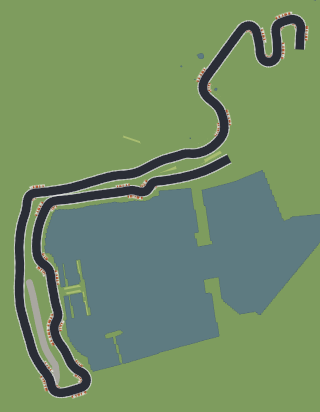
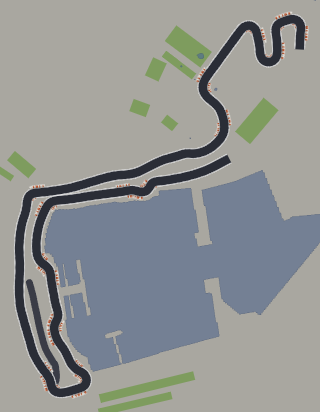
Moanaco's town paved: concrete pavements, quays and squares, its parks and gardens grass, a tarmac pit lane - behind ?moanacovenue=1
Owner 11-11 on the town sitting on grass: "Yeah make pavement or anything else you need".
- world/venue.ts VenueSpec.base: the ground off the road (Moanaco: concrete - the existing ground
  art, pale slabs - so the streets between the blocks, the quays to the water's edge and Casino
  Square are paved); grass when not given (every other venue as before).
- the parks, gardens and woods as grass pads (OSM leisure=park / garden, landuse=grass,
  natural=wood, landuse=forest near the lap, each its smallest turned rectangle:
  tools/scratch/_moparks.mjs; shrunk about its middle to keep 13 m off the road:
  _mopads.mjs): 16 - the Casino's gardens (the Petite Afrique, the Boulingrins), the terraces
  above the tunnel, the Rocher's woods by Rascasse; the Parc Spelugues (on the hairpin) and a strip
  by Tabac left out. Bushes grow only on grass: in the gardens, not on the pavements.
- the car parks left out (tools/venues/moanaco.json leaveOut "paddocks": they were mown grass).
- world/venuepit.ts / VenueSpec.pitSurface: a concrete pit lane did not show on the concrete town
  (photographed); Moanaco's tarmac, as the real one. Every other venue's concrete as before.
- the menu thumbnail repainted.

Checks (MOANACOVENUE=1):
- crossingcheck moanaco: the bent tunnel both ways, pressed on each wall, from each side: all OK.
- barriercheck all OK; propcheck clear (every level); venueaudit: one block on a block (two city
  buildings), Armco doubled 10 m inside Portier - as before.
[…]

diff --git a/src/world/levels/venues/moanaco.ts b/src/world/levels/venues/moanaco.ts
@@ -613,46 +613,6 @@ export const MOANACO_VENUE: VenueData = {
       "rot": -0.922},
   ],
   paddocks: [
-    {"name": "", "surface": "", "x": -48.5, "y": -191.2, "w": 54.8, "h": 4.7, "rot": -2.71,
-      "pts": [[-24.6, -177.6], [-26.3, -183.3], [-72.3, -204.7], [-74.4, -200.5], [-24.6, -177.6]]},
-    {"name": "", "surface": "", "x": 369.3, "y": -433.6, "w": 15.5, "h": 4, "rot": 0.64,
-      "pts": [[363, -438], [374.3, -427.3], [376.7, -430.6], [364.3, -439.8], [363, -438]]},
-    {"name": "", "surface": "", "x": 161.4, "y": -149.5, "w": 48, "h": 4.9, "rot": -0.461,
-      "pts": [[140.9, -136.6], [183.9, -158], [181.8, -162.4], [138.8, -141], [140.9, -136.6]]},
-    {"name": "", "surface": "", "x": 42.9, "y": -118.7, "w": 44.7, "h": 3.9, "rot": -0.105,
-      "pts": [[20.9, -114.5], [65.3, -119.1], [64.9, -123], [20.4, -118.3], [20.9, -114.5]]},
-    {"name": "", "surface": "", "x": 61.8, "y": -130.6, "w": 9.1, "h": 4, "rot": -0.072,
-      "pts": [[57.4, -128.2], [66.5, -128.9], [66.2, -132.9], [57.1, -132.3], [57.4, -128.2]]},
-    {"name": "", "surface": "", "x": 155, "y": -306.4, "w": 45.7, "h": 6.7, "rot": 0.83,
-      "pts": [[170.3, -289.4], [150.4, -306.4], [143, -315.4], [139.6, -323.3], [143.2, -324.2],
-      [148.9, -313.1], [172.6, -292.1], [170.3, -289.4]]},
-    {"name": "", "surface": "", "x": 143.2, "y": -337.7, "w": 20.1, "h": 6.2, "rot": 1.967,
-      "pts": [[150, -345.7], [144.6, -348], [138.5, -334.4], [137.9, -329], [143.6, -330.4], [150,
-      -345.7]]},
-    {"name": "", "surface": "", "x": 132.7, "y": -344, "w": 18.3, "h": 6.1, "rot": -0.864,
-      "pts": [[124.4, -339], [128.3, -336.7], [135, -341.9], [138.8, -350.8], [135.1, -351.5],
-      [134.4, -348.1], [129, -340.9], [124.4, -339]]},
-    {"name": "", "surface": "", "x": 369.3, "y": -415.5, "w": 18.8, "h": 3, "rot": -0.923,
-      "pts": [[364.8, -407], [376.2, -422], [373.8, -423.9], [362.4, -408.9], [364.8, -407]]},
-    {"name": "", "surface": "", "x": 139.5, "y": -162.9, "w": 51.6, "h": 6, "rot": -0.383,
-      "pts": [[115.3, -154], [142.5, -160.9], [163.2, -173], [161.9, -175.1], [154.2, -169.3],
-      [142.3, -163.3], [131, -159.2], [114.7, -156.1], [115.3, -154]]},
-    {"name": "", "surface": "", "x": 154.2, "y": -184.1, "w": 91.2, "h": 14.2, "rot": -0.644,
-      "pts": [[114.5, -161], [138.8, -167.2], [155.4, -176.2], [172.9, -191], [184, -207.1],
-      [187.2, -216.2], [185.6, -216.6], [183, -209.6], [173.3, -194.5], [159, -181.2], [139.6,
-      -169.5], [114.2, -163], [114.5, -161]]},
-    {"name": "", "surface": "", "x": -207.3, "y": 204.9, "w": 48.2, "h": 5.8, "rot": 2.955,
-      "pts": [[-231.3, 207.3], [-228.4, 211.8], [-183.1, 203.2], [-186.4, 198], [-231.3, 207.3]]},
-    {"name": "", "surface": "", "x": -210.4, "y": 192.5, "w": 51.2, "h": 5.3, "rot": 2.954,
-      "pts": [[-236, 194.8], [-234.5, 199.8], [-184.7, 190.3], [-189, 185.8], [-236, 194.8]]},
-    {"name": "", "surface": "", "x": -189.9, "y": 141.1, "w": 36.6, "h": 2.8, "rot": -1.77,
-      "pts": [[-187.4, 159.2], [-185.5, 158.8], [-192.2, 123], [-194.9, 123.4], [-187.4, 159.2]]},
-    {"name": "", "surface": "", "x": -169.9, "y": 246, "w": 36.9, "h": 3.9, "rot": -1.776,
-      "pts": [[-168, 264.4], [-164.6, 263.5], [-171.7, 227.5], [-175.5, 228.3], [-168, 264.4]]},
-    {"name": "", "surface": "", "x": -176.9, "y": 210.1, "w": 13.1, "h": 3.2, "rot": 1.384,
-      "pts": [[-179.7, 204], [-177.1, 216.8], [-174.1, 216.3], [-176.5, 203.5], [-179.7, 204]]},
-    {"name": "", "surface": "", "x": 50, "y": -80.1, "w": 88.7, "h": 2.8, "rot": -0.147,
-      "pts": [[6, -74.2], [6.4, -72.4], [93.9, -85.1], [93.7, -87.9], [6, -74.2]]},
   ],
   woods: [
     {"pts": [[-358.1, 539.2], [-371, 541.8], [-371.9, 544.6], [-328.8, 556.6], [-330.2, 564],

diff --git a/src/world/levels/moanaco-venue.ts b/src/world/levels/moanaco-venue.ts
@@ -441,6 +441,33 @@ export const MOANACO_SPEC: VenueSpec = {
   // m past the road's edge the walls stand (a street circuit: the walls hard by the road)
   runoffM: 3,
   mixFences: true,
+  // THE TOWN PAVED (owner 11-11: "make pavement or anything else you need"): the ground off the
+  // road concrete - pavements, quays, squares - and the parks and gardens grass (OSM leisure=park /
+  // garden, landuse=grass and the woods near the lap, each its smallest turned rectangle:
+  // tools/scratch/_moparks.mjs), each shrunk about its middle to keep 13 m off the road
+  // (tools/scratch/_mopads.mjs; the Parc Spelugues by the hairpin and a strip by Tabac left out):
+  // the Casino's gardens - the Petite Afrique, the Boulingrins - the terraces above the tunnel
+  base: 'concrete',
+  // the pit lane tarmac, as the real one (concrete on the concrete town it did not show)
+  pitSurface: 'tarmac',
+  pads: [
+{ at: [48, -238], w: 26, h: 37, rot: -0.9, surface: 'grass' },
+    { at: [449, -641], w: 113, h: 57, rot: -1.48, surface: 'grass' },
+    { at: [97, -438], w: 116, h: 51, rot: -2.5, surface: 'grass' },
+    { at: [12, -378], w: 52, h: 39, rot: -1.14, surface: 'grass' },
+    { at: [-408, 287], w: 29, h: 40, rot: -1.7, surface: 'grass' },
+    { at: [73, -389], w: 19, h: 98, rot: 2.22, surface: 'grass' },
+    { at: [281, -239], w: 116, h: 51, rot: 2.27, surface: 'grass' },
+    { at: [-272, 542], w: 172, h: 53, rot: 0.04, surface: 'grass' },
+    { at: [-502, 506], w: 154, h: 42, rot: 3.06, surface: 'grass' },
+    { at: [-42, 497], w: 196, h: 20, rot: -0.23, surface: 'grass' },
+    { at: [-30, -277], w: 34, h: 46, rot: -1.22, surface: 'grass' },
+    { at: [-11, 453], w: 254, h: 23, rot: -0.24, surface: 'grass' },
+    { at: [-339, -129], w: 73, h: 32, rot: -2.44, surface: 'grass' },
+    { at: [-402, -118], w: 93, h: 17, rot: -2.56, surface: 'grass' },
+    { at: [50, -407], w: 41, h: 18, rot: -2.5, surface: 'grass' },
+    { at: [507, -633], w: 118, h: 47, rot: -0.95, surface: 'grass' },
+  ],
   railsSeen: MO_RAILS,
   // the tyre wall inside the swimming pool's first chicane, where the pit lane comes up to the
   // start straight (aerial photographs: the barrier between the pool's road and the pit exit; the

diff --git a/src/world/venue.ts b/src/world/venue.ts
@@ -154,6 +154,12 @@ export interface VenueSpec {
   // a pit lane's tunnel under the track: its two open ends, game m (Yass Marina's pit exit, under
   // the first corner; world/venuecross.ts pitTunnelPortals)
   pitTunnel?: { a: Point; b: Point };
+  // the ground off the road where it is not grass (a street circuit's pavements: Moanaco's
+  // concrete, its parks laid as grass pads); grass when not given
+  base?: keyof typeof SURFACES;
+  // the pit lane's surface where the venue's ground is concrete too (Moanaco's: tarmac); concrete
+  // when not given
+  pitSurface?: keyof typeof SURFACES;
   seed: number;
 }
 
@@ -574,7 +580,8 @@ export function venueLevel(spec: VenueSpec, layout: string, levelId: string,
   // on the grid near the start lane's dead end, facing along it; else 15 m before the line
   const start = startLane ? laneSpawn(startLane) : onTrack(sub, sub.totalDist - 15, 0, {});
   return {
-    id: levelId, name, base: SURFACES.grass, subtrack: sub, bounds: scenery.bounds,
+    id: levelId, name, base: SURFACES[spec.base || 'grass'], subtrack: sub,
+    bounds: scenery.bounds,
     floor: Math.ceil(Math.max(-scenery.bounds.x0, scenery.bounds.x1, -scenery.bounds.y0,
       scenery.bounds.y1)),
     camber: spec.camber?.[layout] || { maxDeg: 3, refR: 70, crown: 0.02, edge: 6, sections: [] },

diff --git a/src/world/venuepit.ts b/src/world/venuepit.ts
@@ -77,7 +77,7 @@ export function pitLane(site: Site, name: string): { lane: Lane; wall: Barrier |
     (along) => HALF_ROAD + wallGap(sub, along) + PIT_WALL_GAP + PIT_W / 2, fromMerge);
   // (where a stretch was laid as mapped, the joints eased: spec.pitCuts)
   const lanePts = spec.pitCuts ? smoothLine(eased, CUT_EASE_REACH, CUT_EASE_PASSES) : eased;
-  return { lane: { pts: lanePts, width: PIT_W, surface: SURFACES.concrete },
+  return { lane: { pts: lanePts, width: PIT_W, surface: SURFACES[spec.pitSurface || 'concrete'] },
     wall: beside.length > 8 ? pitWall(site, beside, lanePts, held) : null };
 }
 

diff --git a/NOTES.md b/NOTES.md
@@ -652,6 +652,13 @@ in git, open work in `TODO.md`. Write a handover document only when the owner as
   (up to 16 real m) gave 17.7 m; the lane's entry moved from the corner's apex (in its island at
   the game's widths) to Avenue du Port. tools/scratch/_moseal.mjs (a flood fill from the start,
   barriers and solids grown half a car) found each gap the eye missed.
+- A STREET VENUE'S TOWN IS PAVED (owner 11-11 on Moanaco's town on grass: "make pavement or
+  anything else you need"): VenueSpec.base sets the ground off the road (Moanaco: concrete, the
+  existing ground art - pavements, quays and squares to the water's edge), its parks, gardens and
+  woods laid as grass pads (OSM's outlines boxed, kept 13 m off the road: tools/scratch/
+  _moparks.mjs, _mopads.mjs), its car parks left out (mown grass with parked cars). A concrete
+  pit lane did not show on the concrete town: VenueSpec.pitSurface (Moanaco's tarmac, as the
+  real one). Every other venue: grass and a concrete pit lane, as before (worldhash).
 - A STAND BESIDE A ROAD WATCHES ITS FAR SIDE TOO (11-11, Moanaco): the edge marks 30 m round a
   stand's corners as watched, so a stand by the swimming pool turned 26 m of the road's other side
   (beside the pit lane) to catch fence - a run shorter than MIN_RUN_PTS, dropped: a 19 m gap. The
